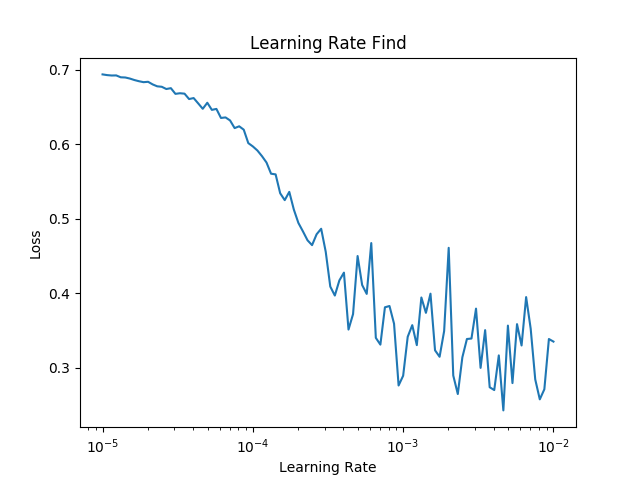
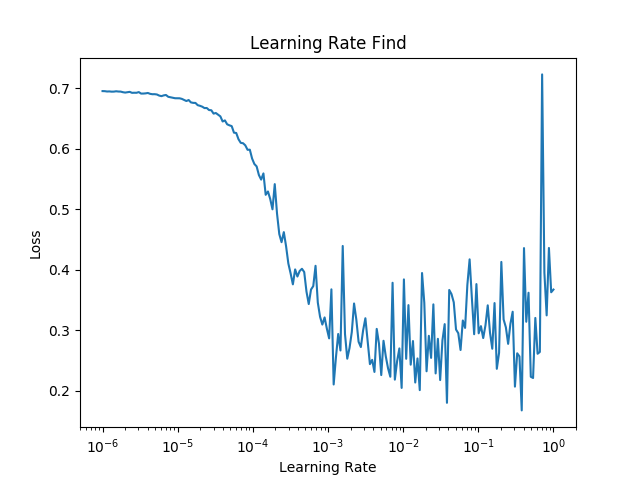
update readme with updated plots

diff --git a/README.md b/README.md
@@ -1,6 +1,6 @@
 # Vocal Mask CNN
 
-Audio source separation in the music domain.
+Monoaural audio source separation in the music domain using deep convolutional neural networks.
 
 ## Overview
 
@@ -10,11 +10,19 @@ Given a piece of music as input, we want to separate the vocals from the accompa
 
 ### Approach
 
-We initially considered a WaveNet based approach [1], but since the models were large and potentially difficult to train, we decided it would be best to work with images by converting the input audio to spectrograms via **Short Time Fourier Transforms** (STFT). Previous [spectrogram-based approaches](https://github.com/MTG/DeepConvSep) (DeepConvSep) used an encoder-decoder strategy applied to the entire input spectrogram [2] in order to generate a binary mask of vocal vs non-vocal activity, then this mask is applied to the mixture to generate the isolated spectrograms. However, we found the separation by these methods to be lacking, and looked to make improvements on it. Audio sample comparisons between Wave-U-Net, DeepConvSep, and our model (Vocal-Mask) can be found in the **Results** section.
+We initially considered a WaveNet based approach [1], but since the models were large and potentially difficult to train, we decided it would be best to work with images by converting the input audio to spectrograms via **Short Time Fourier Transforms** (STFT). [DeepConvSep](https://github.com/MTG/DeepConvSep) is a state-of-the-art spectrogram-based model that uses an encoder-decoder strategy applied to the input spectrogram using a combination of vertical and horizontal convolutions in order to capture timbre and temporal attributes. It generates a soft mask of the same shape as the input spectrogram which can be applied to the input magnitude spectrogram to generate the isolated spectrograms, then the audio recovered via inverse STFT [2]. However, we found the separation by these methods to be lacking, and looked to make improvements on it. Audio sample comparisons between Wave-U-Net, DeepConvSep, and our model (Vocal-Mask) can be found in the **Results** section.
 
-Due to exploration in other works in the audio domain, we initially chose to use **Mel-scale Spectrograms** as our spectrogram of choice. Mel spectrograms use a transformation matrix to convert a STFT-generated spectrogram to a Mel-scaled spectrogram, which attempts to weight magnitudes of frequencies according to their approximate sensitivity to the human ear. This is useful for speech related models as the highest sensitivity is in the human vocal range. However, the biggest issue with this approach is that recovering the audio from a Mel spectrogram is not trivial. The Mel-transform matrix is non-square, so performing an inverse matrix multiplication to recover the STFT spectrogram is not really possible. One solution we found was to use a [WaveRNN model](https://github.com/G-Wang/WaveRNN-Pytorch) to recover the audio, since this project uses Mel spectrograms as input. We found it very challenging to train this model on musical datasets, and even with speech datasets the audio may not be properly recovered as the Mel spectrogram has a very limited number of frequency bins, thus significant information about the original pitch of the audio is lost.  
+Our first attempt used **Mel-scale Spectrograms**, which apply a transformation matrix to the STFT to group and weight frequency bins according to the [Mel scale](https://en.wikipedia.org/wiki/Mel_scale). This evens out the spectrogram magnitudes across the frequency range. Without this, the lower freqencies tend to have much higher magnitudes than the higher frequencies, especially in recorded music. However, it is hard to recover the audio from a Mel-scale spectrogram, so this was abandoned in favor of using the same method as DeepConvSep. However, additional steps were taken in preprocessing. 
 
-As a result, we decided to use spectrograms generated by STFT. Additionally, we applied [Mel perceptual weighting](https://librosa.github.io/librosa/generated/librosa.core.perceptual_weighting.html) to the input spectrograms. After the mask is generated by the model, the mask is applied to the unweighted spectrogram and the audio recovered via inverse STFT. One big advantage of using the full STFT with the masking approach is that we are able to keep the phasing information when masking the mixture, which is necessary for recovering high quality audio. However, since the phasing information does not get passed into the model. This may be an area for further exploration in the future. 
+To generate the monoaural signal, we summed the left and right stereo signals to generate the [mid signal](https://www.izotope.com/en/blog/mastering/what-is-midside-processing.html). This can improve separation a small amount, especially in recorded music where the vocalists tend to be more centered in the mix. The mono signal was passed through a [preemphasis filter](https://en.wikipedia.org/wiki/Preemphasis_improvement) to enhance the signal-to-noise ratio of high-frequency content. We applied [Mel perceptual weighting](https://librosa.github.io/librosa/generated/librosa.core.perceptual_weighting.html) to the input spectrograms to take advantage of the Mel scale. Then a power factor of 2 was applied to the spectrogram to further enhance the signal-to-noise ratio. After the mask is generated by the model, the mask is applied to the unweighted spectrogram and the audio recovered via inverse STFT. Using the full STFT preserves the phasing information of the original audio and is necessary for producing high quality target waveform estimations. However, the phasing information does not get passed into the model, which is one advancement that the Wave-U-Net model made use of by operating in the waveform domain.  
+
+#### Model Approach  
+
+<p align="center">
+    <img src="assets/model_approach.png"/>
+</p>
+
+For the vocal spectrogram, only the center column of the image is kept. This is converted to a binary mask and used as the target label with size (513,). We wanted to increase the receptive to target field ratio as this seemed to work well for Wave-U-Net. The mixture spectrograms pass through the convolutional neural network, which ends with a 513-way fully-connected layer with a sigmoid to constrain the output to the 0-1 range.  
 
 | Model | Receptive Field | Target Field |
 |-------|-----------------|--------------|
@@ -22,46 +30,37 @@ As a result, we decided to use spectrograms generated by STFT. Additionally, we 
 | Wave-U-Net | 9.21s | 1.02s |
 | Vocal-Mask | 290ms | 11.6ms |
 
-The DeepConvSep model used a combination of vertical and horizontal convolutions in order to capture the timbre of the input audio. Additionally, since the output size is the same as the input size, the amount of data the model uses to produce the output is 1-to-1. In our approach, we captured the timbre information by using very small slices of the input spectrogram, and the model produces the predicted mask for only a single time window in the spectrogram. This way, the timbre is captured by the spectrogram framing, and the model has more input data to work with compared to the output required (25-to-1). Additionally, it allowed us to use a slightly modified ResNet18 model as our convolutional network (we changed the initial downsampling convolution to only downsample in the _y_ direction). 
+Different window sizes of the receptive field for the input spectrogram were tested. Intuitively, larger windows give the network more context for making the prediction. We found that larger window sizes did indeed produce smaller losses, but at a diminishing rate. Larger window sizes also increased GPU memory consumption, so we decided to stay consistent with the window size used by DeepConvSep (25 stft frames ~ 290ms).  
 
 <p align="center">
-    <img src="assets/model_approach.png"/>
+    <img src="assets/window_sizes_train.png" width="200px"/> <img src="assets/window_sizes_valid.png" width="200px"/>
 </p>
 
-This is the approach we ended up with. Input mixture waveforms and target vocal waveforms would be sliced up and converted to spectrograms, then Mel perceptual weightings would be applied. The magnitude of each frequency was also cubed in order to enhance the separation between stronger and softer signals, then the output was scaled to the 0-1 range. 
-
-For the vocal spectrogram, only the center column of the image is kept. This is converted to a binary mask and used as the target label with size (513,). The mixture spectrograms pass through the convolutional neural network, which ends with a 513-way fully-connected layer with a sigmoid to constrain the output to the 0-1 range. We chose to use Binary Cross Entropy Loss as it was well suited for our output and target. 
+#### Inference Procedure  
 
 <p align="center">
     <img src="assets/model_inference.png"/>
 </p>
 
-At inference time, the input waveforms are sliced into overlapping windows. Each window is converted to Mel-weighted spectrogram and passed through the network to generate the binary mask. The masks are then concatenated and applied to the pre-Mel-weighted spectrogram (which preserves magnitude and phasing information) to produce the isolated vocal-only spectrogram. To produce the background-only spectrogram, the mask can be inverted. The audio can then be recovered via inverse STFT.
-
-Different window sizes for the input spectrogram were tested. Intuitively, larger windows give the network more context for making the prediction. We found that larger window sizes did indeed produce smaller losses, but at a diminishing rate. Larger window sizes also increased GPU memory consumption. We opted to use 25 hop lengths for this project, which is approximately ~290ms of audio. 
-
-<p align="center">
-    <img src="assets/window_sizes_train.png"/> <img src="assets/window_sizes_valid.png"/>
-</p>
+At inference time, the input waveforms are sliced into overlapping 290ms windows with an 11.6ms stride. Each window is converted to Mel-weighted spectrogram and passed through the network to generate the binary mask. The masks are then concatenated and applied to the pre-Mel-weighted spectrogram (which preserves magnitude and phasing information) to produce the isolated vocal-only spectrogram. The audio is then recovered via inverse STFT.  
 
 
 ## Usage
 
 ### Dataset
 
-We used the [DSD100 dataset](https://sigsep.github.io/datasets/dsd100.html) for this project. The `build_dataset.py` script downsamples the input audio to `hparams.sample_rate` and converts the downsampled audio to spectrogram and saves index slices of the spectrogram. At the smallest slice striding, 100 songs produces approximately 2 million example slices. Not only does this produce more examples for training, but we found the overlapping windows also served the purpose of data-augmentation as it is essentially a horizontal-translation augmentation. We quickly noticed that more examples was improving our models learning ability much more than the complexity and number of parameters of our model, so we augmented the original DSD100 dataset by manually assembling mixture and vocal examples. The process for this was to find waveform stems from remix competitions, sum the stems to produce the mixture, then sum the vocal stems to produce the vocal waveform. 
+We used the [MUSDB18](https://sigsep.github.io/datasets/musdb.html) for this project. The dataset must be decoded using the [SigSep Stems Decoder](https://github.com/sigsep/sigsep-mus-io). The `preprocess.py` script downsamples the input audio to `hparams.sample_rate` and converts the downsampled audio to spectrogram.  
 
-To generate the dataset, download the DSD100 dataset, then move all files in the Mixtures/Dev and Mixtures/Test directories to the Mixtures/ directory, and do the same for Sources/Dev and Sources/Test. Then, delete the Dev and Test subdirectories and run the script as follows:  
- 
-```python build_dataset.py <DSD100 root dir> <output dir>```
+Run the preprocess script to generate the spectrograms:  
+```python preprocess.py <musdb root dir> <output dir>```
 
-The window size and striding for the slices are controlled by `hparams.stft_frames` and `hparams.stft_stride`, respectively.
+The window size and striding for the slices are controlled by `hparams.stft_frames` and `hparams.stft_stride`, respectively. 
 
 ### Training
 
 ```python train.py <data dir> --checkpoint=<path to checkpoint file (*.pth)>```
 
-The first argument should be the same as the output directory of `build_dataset`.  
+The first argument should be the same as the output directory of `preprocess`.  
 A pretrained model for `hparams.model_type = 'resnet18'` can be downloaded here: [resnet18_step000033000.pth](https://drive.google.com/open?id=19QciqI26LXrJtQqPiilPzhQHNGbx00pP).  
 The window size can be modified with `hparams.stft_frames`. Larger window sizes will require more GPU memory.
 
@@ -77,13 +76,13 @@ This will generate a vocal wav file in the `generated` directory. Below are the 
 
 ### Training
 
-A cyclic learning rate scheduler was used to train the model. A learning rate finder was used find reasonable learning rate boundaries [5]. Based on the plot below, the learning range was selected to be from 3e-5 to 1e-4.
+A one-cycle learning rate scheduler [5] was used to train the model. A learning rate finder was used find reasonable learning rate boundaries [4]. Based on the plot below, the learning range was selected to be from 1e-4 to 3e-3 from iterations 0 to 3458, then back down to 1e-4 from iterations 3458 to 6917, then trailing down to 1e-6 until iteration 7686.  
 
 <p align="center">
     <img src="assets/lr_find.png"/>
 </p>
 
-The model was trained for 4 epochs in total - further training did not improve the validation loss.
+The model was trained using the AdamW optimizer [6] with `beta1` 0.9, `beta2` 0.99, `weight decay` 0.3, and a batch size of 256.
 
 <p align="center">
     <img src="assets/training_loss.png"/>
@@ -138,31 +137,27 @@ Sample 5 Spectrograms
 
 ### Quantitative Comparisons
 
-Below are quantitative evaluations of the signal and separation quality based on [BSS Eval](https://github.com/sigsep/sigsep-mus-eval) metrics. Shown are the median SDR values when applying the model to the MusDB18 test set. Higher values indicate better separation and signal quality. 
+Below are quantitative evaluations of the signal and separation quality based on [BSS Eval](https://github.com/sigsep/sigsep-mus-eval) metrics. Shown are the median SDR values when applying the model to the MusDB18 test set. Higher values indicate better separation and signal quality. For the Vocal-Mask model, two methods were evaluated for applying the mask. The first method was with a hard binary mask with 0.5 as the cutoff threshold for vocal content. The second method was using a soft mask with a noise gate at 0.1 such that all values below 0.1 were considered silent.  
 
-| Model | Vocal SDR | Accompaniment SDR |
-|-------------|-----------|----------|
-| DeepConvSep | 2.37 | N/A |
-| Wave-U-Net | 4.60 | 11.87 |
-| Vocal-Mask (ResNet18) | 3.66 | 7.34 |
+| Model | SDR | SIR | SAR |
+|-------|-----|-----|-----|
+| DeepConvSep | 2.37 | 4.65 | 8.04 |
+| Wave-U-Net | 4.60 | 14.30 | 5.54 |
+| Vocal-Mask (Soft Mask) | 3.66 | -- | -- |
 
 ## Discussion  
 
-The model converges very quickly within 2-3 epochs and eventually reaches a validation loss of about 0.165. 
-We found that the validation loss improved significantly the more training data was available, so although the qualitative results of our model are decent, it would likely further improve with more data. 
+The model obtained best BSS Eval scores using the soft mask compared to the hard binary mask. Compared to DeepConvSep, which was also a spectrogram-based method, we were able to achieve significantly improved BSS Eval scores. Unfortunately, we fell short of Wave-U-Net's BSS Eval scores. Qualitatively, we found that our model worked best on acoustic or pop music where the vocals are more prominent in the mix. Fuller mixes have less variation between peaks and troughs in the spectrogram, which resulted in the model having a harder time picking out vocal features and creating less separation. Similarly, the model also has trouble with whispered vocals, as can be heard near the beginning of **Sample 5**, likely due to vocal signal being softer relative to the background. This is one area that Wave-U-Net worked well in where our model did not - Wave-U-Net was able to successfully generate whispered audio.  
 
-Qualitatively, we found that our model worked best on acoustic or pop music where the vocals are more prominent in the mix. Fuller mixes have less variation between peaks and troughs in the spectrogram, which resulted in the model having a harder time picking out vocal features and creating less separation. 
-Compared to Wave-U-Net, we found that Wave-U-Net was able to produce stronger isolations, but at the cost of adding noticable noise artifacts. Our model was generally very liberal with cutting out audio, and could produce fairly high quality audio with good vocal isolation on some input, but tended to cut out too much vocal information in other input. In particular, our model seems to cut out lower frequency components to the vocal. This might be improved by changing how the input spectrograms are preprocessed. Compared with DeepConvSep, our model produced better separation on most inputs.
+One challenge we faced during training was that the model overfit very quickly using fixed or monotonically decreasing learning rate schedulers. Switching to a one-cycle learning rate policy with high learning rates and weight decay regularization resulted in the validation loss hugging the training loss curve more closely without diverging. Experimentation was done with data augmentation in the pitch domain by pitch shifting the vocals before regenerating the mixtures, but this did not improve validation loss. There may be other augmentation procedures that would help however.  
 
-All models had trouble with whispered or under-the-breath vocals, as can be heard near the beginning of **Sample 5**. Since the signal is soft relative to the background, the whispered vocal is buried within the input.
-
-There are several next steps that could be taken to improve the model as is. One area is to increase the amount of training examples, but this likely would not help with the full-mix problem. Another area is increasing the number of input channels. The model currently uses a single input channel containing only the monophonic magnitude spectrogram. Another possibility is to use two channel input, one channel for each of the [mid and side signals](https://www.izotope.com/en/blog/mastering/what-is-midside-processing.html). The mid signal is comprised of elements that are common to both the left and right audio signals, while the side signal is comprised of the difference between the left and right signals. This may help because in recorded music, the vocals and percussion tend to be mostly contained in the mid signal, while other accompaniment may be spread between mid and side signals. Stereo processing may also be possible (one channel for the left audio and the other channel for the right audio), but these will likely look more similar to each other than mid-side channels.
-
+Overall, we made significant improvements on previous spectrogram based methods. Going forward, we would like to see how to incorporate phase information into our method.  
 
 ## References
 
-[1] End-to-end music source separation: is it possible in the waveform domain? https://arxiv.org/abs/1810.12187  
-[2] Monoaural Audio Source Separation Using Deep Convolutional Neural Networks. http://mtg.upf.edu/node/3680  
-[3] Efficient Neural Audio Synthesis. https://arxiv.org/abs/1802.08435v1  
-[4] Liutkus, A., Stoter, F.R., Rafii, Z. The 2016 Signal Separation Evaluation Campaign. https://sigsep.github.io/datasets/dsd100.html  
-[5] Cyclic Learning Rates. https://arxiv.org/abs/1506.01186  
+[1] Lluis, F., Pons, J., and Xavier Serra. End-to-end music source separation: is it possible in the waveform domain? 2018. https://arxiv.org/abs/1810.12187  
+[2] Chandna, P., Miron, M., Janer, J., and Emilia Gómez. Monoaural Audio Source Separation Using Deep Convolutional Neural Networks. 2017. http://mtg.upf.edu/node/3680  
+[3] Rafii, Z., Liutkus, A., Fabian-Robert, S., Mimilakis, S.I., and Rachel Bittner. The MUSDB18 Corpus for music separation. 2017. https://sigsep.github.io/datasets/musdb.html  
+[4] Leslie N. Smith. Cyclic Learning Rates. 2015. https://arxiv.org/abs/1506.01186  
+[5] Leslie N. Smith. A disciplined approach to neural network hyper-parameters: Part 1 -- learning rate, batch size, momentum, and weight decay. 2018. https://arxiv.org/abs/1803.09820  
+[6] Loshchilov, I. and Frank Hutter. Decoupled Weight Decay Regularization. 2017. https://arxiv.org/abs/1711.05101
